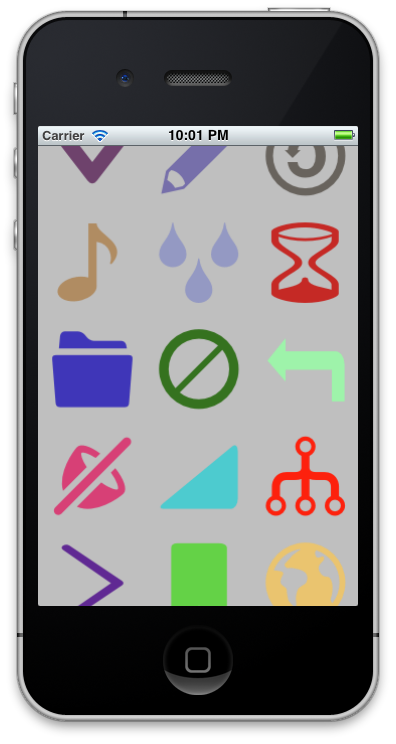
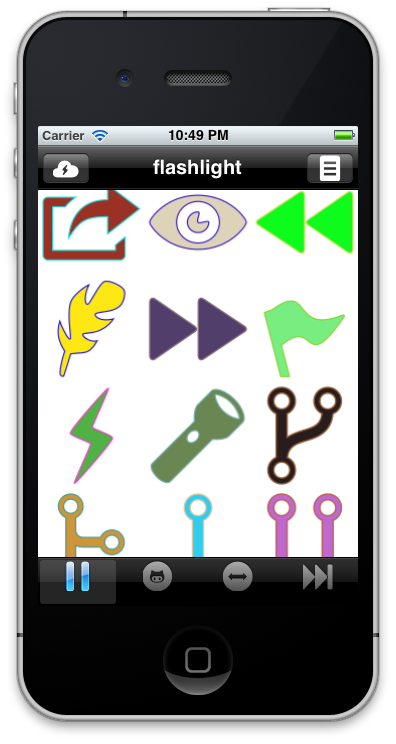
More samples added

diff --git a/FontasticIcons/Sample/FIViewController.m b/FontasticIcons/Sample/FIViewController.m
@@ -10,6 +10,9 @@
 
 #import "FontasticIcons.h"
 
+#import "FIIcon.h"
+#import "FIIcon+FIIconRenderer.h"
+
 @interface FIViewController ()
 
 @end
@@ -21,6 +24,9 @@ const static NSUInteger kColumnsCount = 3;
 - (void)viewDidLoad
 {
     [super viewDidLoad];
+    
+    self.navigationController.navigationBar.barStyle = UIBarStyleBlackOpaque;
+    
     self.view.backgroundColor = [UIColor whiteColor];
     UIScrollView *scrollView = [[UIScrollView alloc] initWithFrame:self.view.frame];
     [self.view addSubview:scrollView];    
@@ -40,10 +46,10 @@ const static NSUInteger kColumnsCount = 3;
                                            size)];
         iconView.backgroundColor = [UIColor clearColor];
         iconView.icon = [self.iconClass iconWithName:iconName];
-        iconView.padding = 2;
+        iconView.padding = 5;
         iconView.iconColor = [self randomColor];
         iconView.iconStrokeColor = [self randomColor];
-        iconView.iconStrokeWidthRatio = 0.15;
+        iconView.iconStrokeWidthRatio = 0.05;
         UITapGestureRecognizer *recognizer = [[UITapGestureRecognizer alloc]
                                               initWithTarget:self
                                               action:@selector(iconSelected:)];
@@ -56,7 +62,45 @@ const static NSUInteger kColumnsCount = 3;
     CGSize contentSize = CGSizeMake(kColumnsCount * size,
                                     (currentRow + 2) * size);
     [scrollView setContentSize:contentSize];
+    
+    [self renderNavigationItems];
 }
+
+- (void)renderNavigationItems {
+    FIIcon *leftIcon = [self randomIcon];
+    UIImage *leftImage = [leftIcon imageWithBounds:CGRectMake(0, 0, 26, 26) color:[UIColor whiteColor]];
+    
+    self.navigationItem.leftBarButtonItem = [[UIBarButtonItem alloc]
+                                             initWithImage:leftImage
+                                             style:UIBarButtonItemStyleBordered
+                                             target:nil
+                                             action:nil];
+    
+    FIIcon *rightIcon = [self randomIcon];
+    UIImage *rightImage = [rightIcon imageWithBounds:CGRectMake(0, 0, 26, 26) color:[UIColor whiteColor]];
+    
+    self.navigationItem.rightBarButtonItem = [[UIBarButtonItem alloc]
+                                             initWithImage:rightImage
+                                             style:UIBarButtonItemStyleBordered
+                                             target:nil
+                                             action:nil];
+}
+
+- (void)iconSelected:(UITapGestureRecognizer *)sender {
+    FIIconView *view = (FIIconView *)sender.view;
+    [self.navigationItem setTitle:view.icon.name];
+}
+
+- (void)setIconClass:(Class)iconClass {
+    _iconClass = iconClass;
+
+    FIIcon *icon = [self randomIcon];
+    
+    UIImage *image = [icon imageWithBounds:CGRectMake(0, 0, 30, 30) color:[UIColor blackColor]];
+    
+    [self.tabBarItem setImage:image];    
+}
+
 
 - (UIColor *)randomColor {
     int r = arc4random() % 255;
@@ -68,10 +112,11 @@ const static NSUInteger kColumnsCount = 3;
                            alpha:1];
 }
 
-
-- (void)iconSelected:(UITapGestureRecognizer *)sender {
-    FIIconView *view = (FIIconView *)sender.view;
-    [self.navigationItem setTitle:view.icon.name];
+- (FIIcon *)randomIcon {
+    NSArray *icons = [_iconClass iconNames];
+    NSInteger iconIndex = arc4random() % icons.count;
+    NSString *iconName = [icons objectAtIndex:iconIndex];
+    return [_iconClass iconWithName:iconName];
 }
 
 @end

diff --git a/FontasticIcons/Sample/FIAppDelegate.m b/FontasticIcons/Sample/FIAppDelegate.m
@@ -7,20 +7,44 @@
 //
 
 #import "FIAppDelegate.h"
-
 #import "FIViewController.h"
-#import "FIFontListViewController.h"
+
+#import "FIEntypoIcon.h"
+#import "FIEntypoSocialIcon.h"
+#import "FIIconicIcon.h"
+#import "FIFontAwesomeIcon.h"
 
 @implementation FIAppDelegate
 
 - (BOOL)application:(UIApplication *)application didFinishLaunchingWithOptions:(NSDictionary *)launchOptions
 {
     self.window = [[UIWindow alloc] initWithFrame:[[UIScreen mainScreen] bounds]];
+    
+    FIViewController *entypoViewController = [FIViewController new];
+    entypoViewController.iconClass = [FIEntypoIcon class];
+    
+    FIViewController *entypoSocialViewController = [FIViewController new];
+    entypoSocialViewController.iconClass = [FIEntypoSocialIcon class];
+    
+    FIViewController *iconicViewController = [FIViewController new];
+    iconicViewController.iconClass = [FIIconicIcon class];
+    
+    FIViewController *fontAwesomeViewController = [FIViewController new];
+    fontAwesomeViewController.iconClass = [FIFontAwesomeIcon class];
 
-    self.viewController = [[FIFontListViewController alloc] init];
-    UINavigationController *navController = [[UINavigationController alloc]
-                                             initWithRootViewController:self.viewController];
-    self.window.rootViewController = navController;
+    UITabBarController *tabbarController = [UITabBarController new];
+    
+    NSArray *viewControllers =
+    @[
+      [[UINavigationController alloc] initWithRootViewController:entypoViewController],
+      [[UINavigationController alloc] initWithRootViewController:entypoSocialViewController],
+      [[UINavigationController alloc] initWithRootViewController:iconicViewController],
+      [[UINavigationController alloc] initWithRootViewController:fontAwesomeViewController]
+      ];
+    
+    tabbarController.viewControllers = viewControllers;
+    
+    self.window.rootViewController = tabbarController;
     [self.window makeKeyAndVisible];
     return YES;
 }

diff --git a/FontasticIcons/Sample/FIAppDelegate.h b/FontasticIcons/Sample/FIAppDelegate.h
@@ -12,6 +12,4 @@
 
 @property (strong, nonatomic) UIWindow *window;
 
-@property (strong, nonatomic) UIViewController *viewController;
-
 @end
